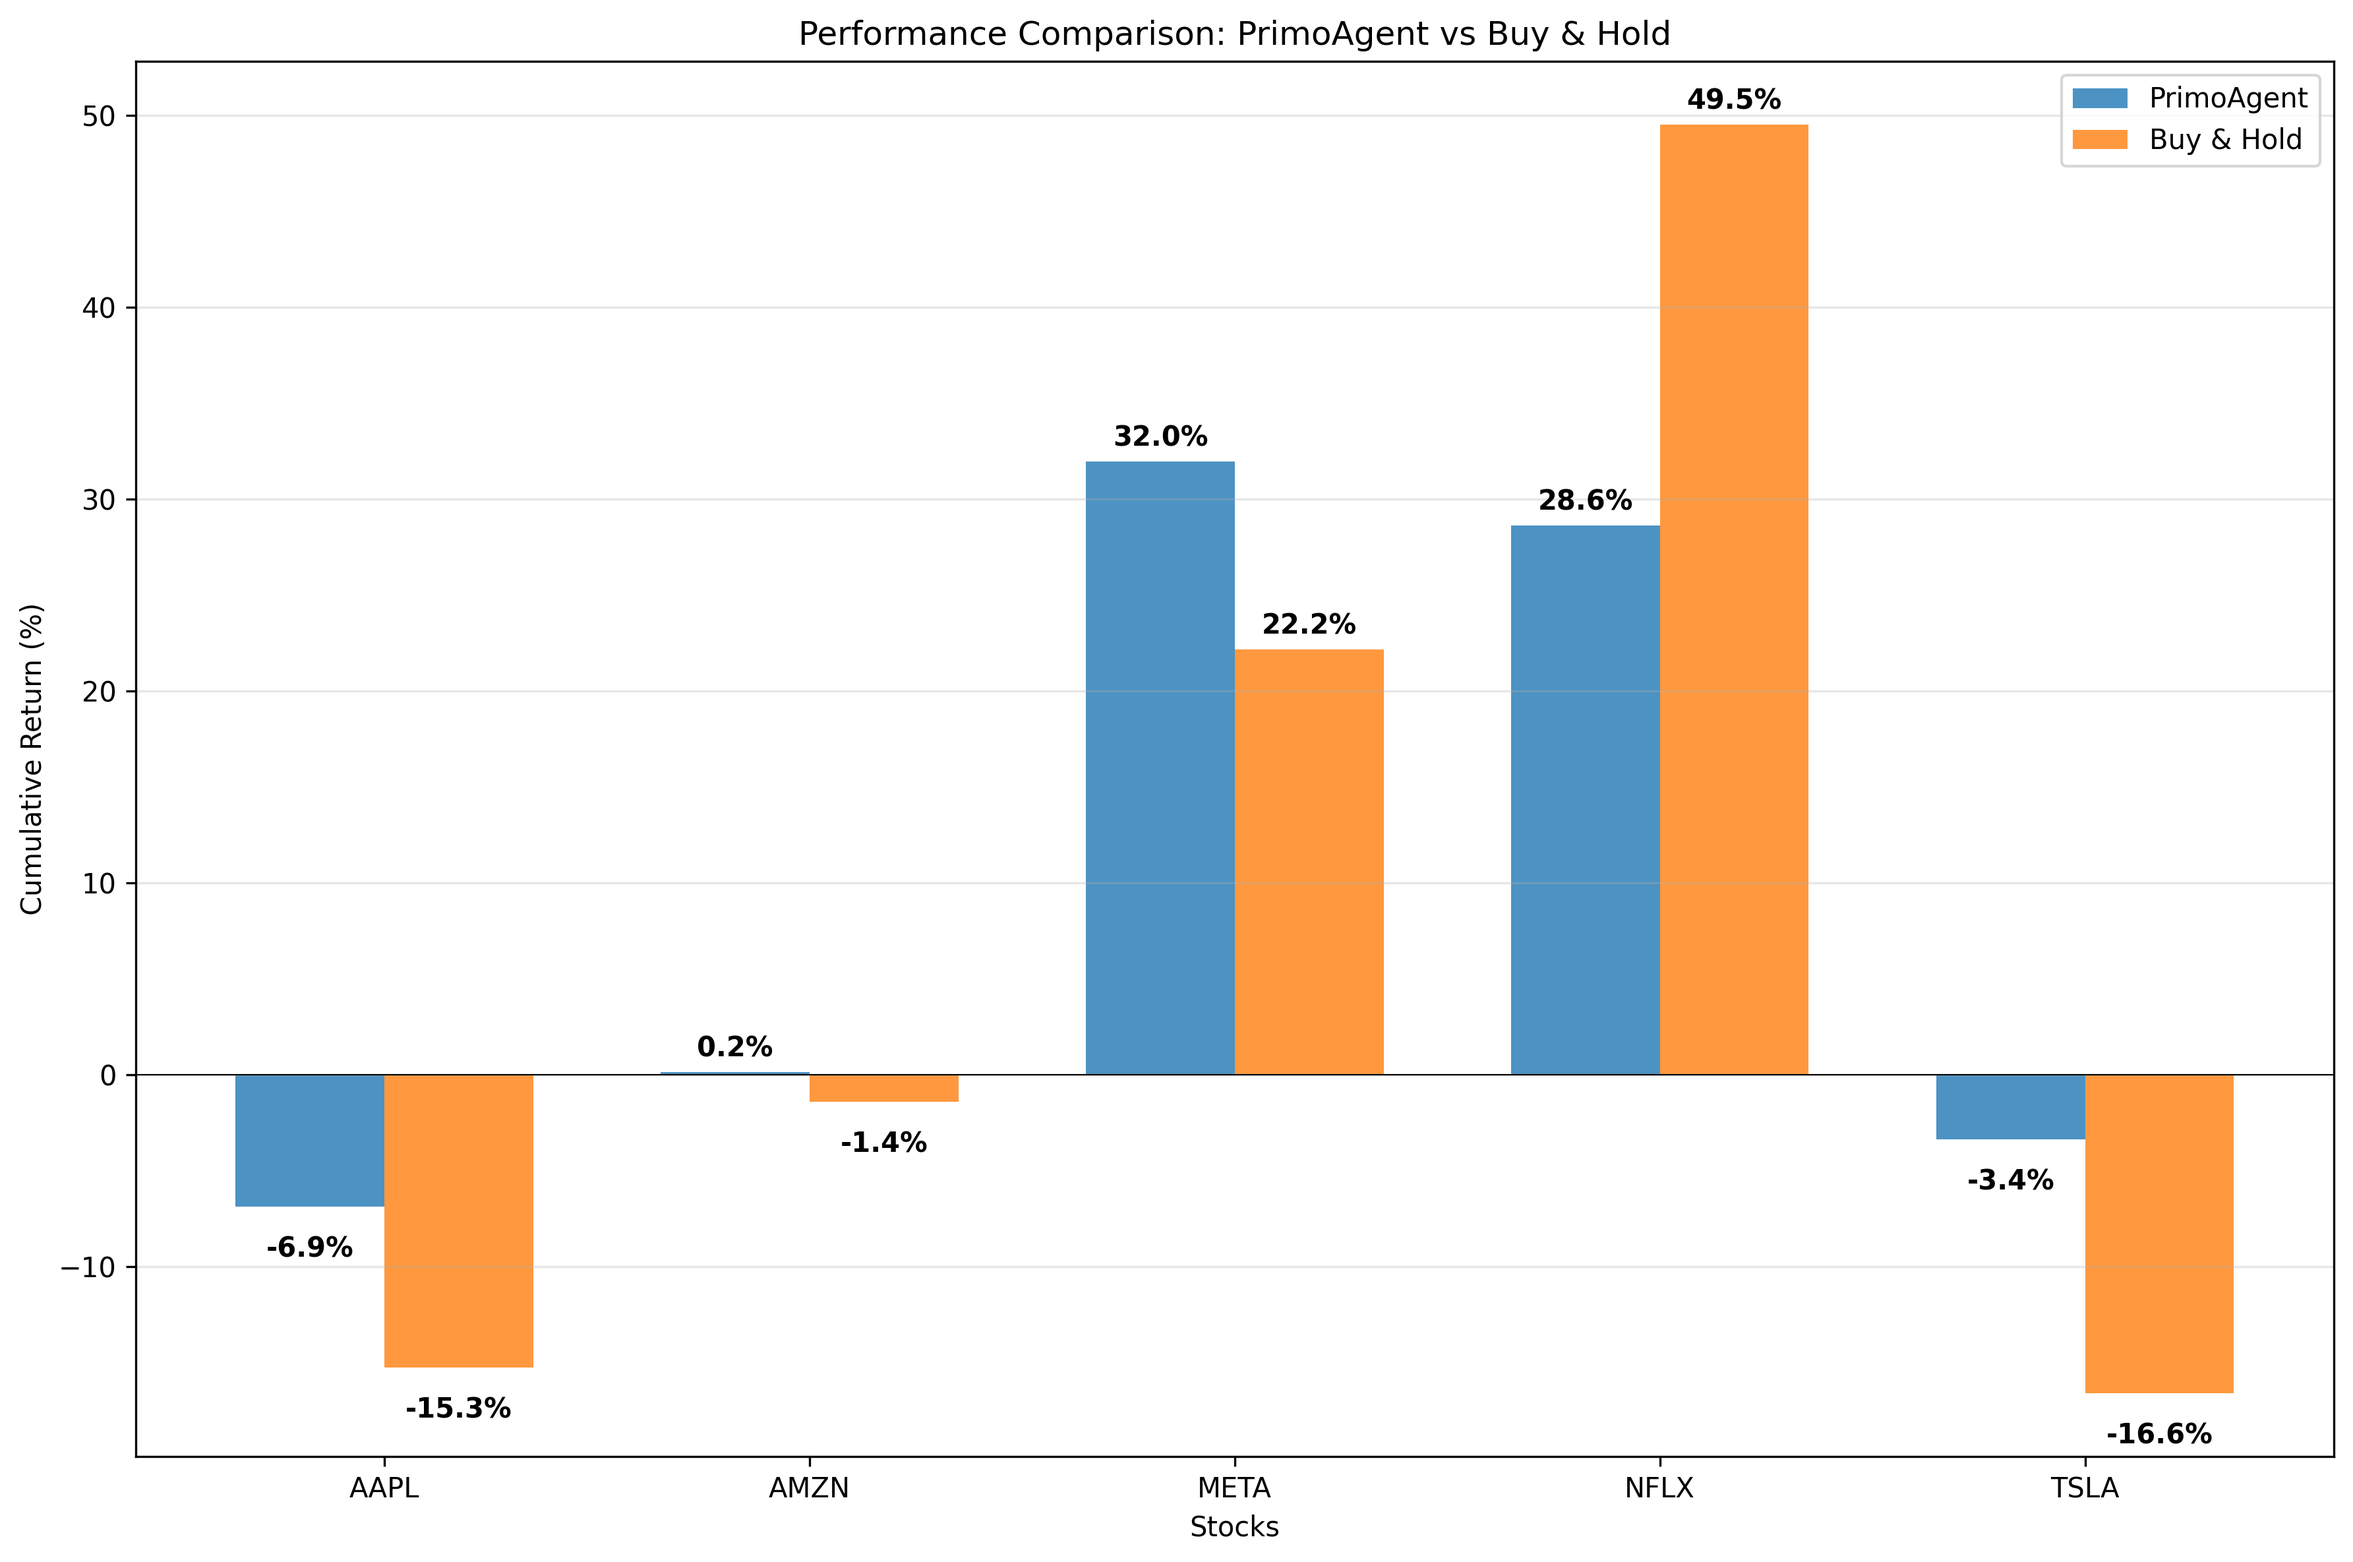
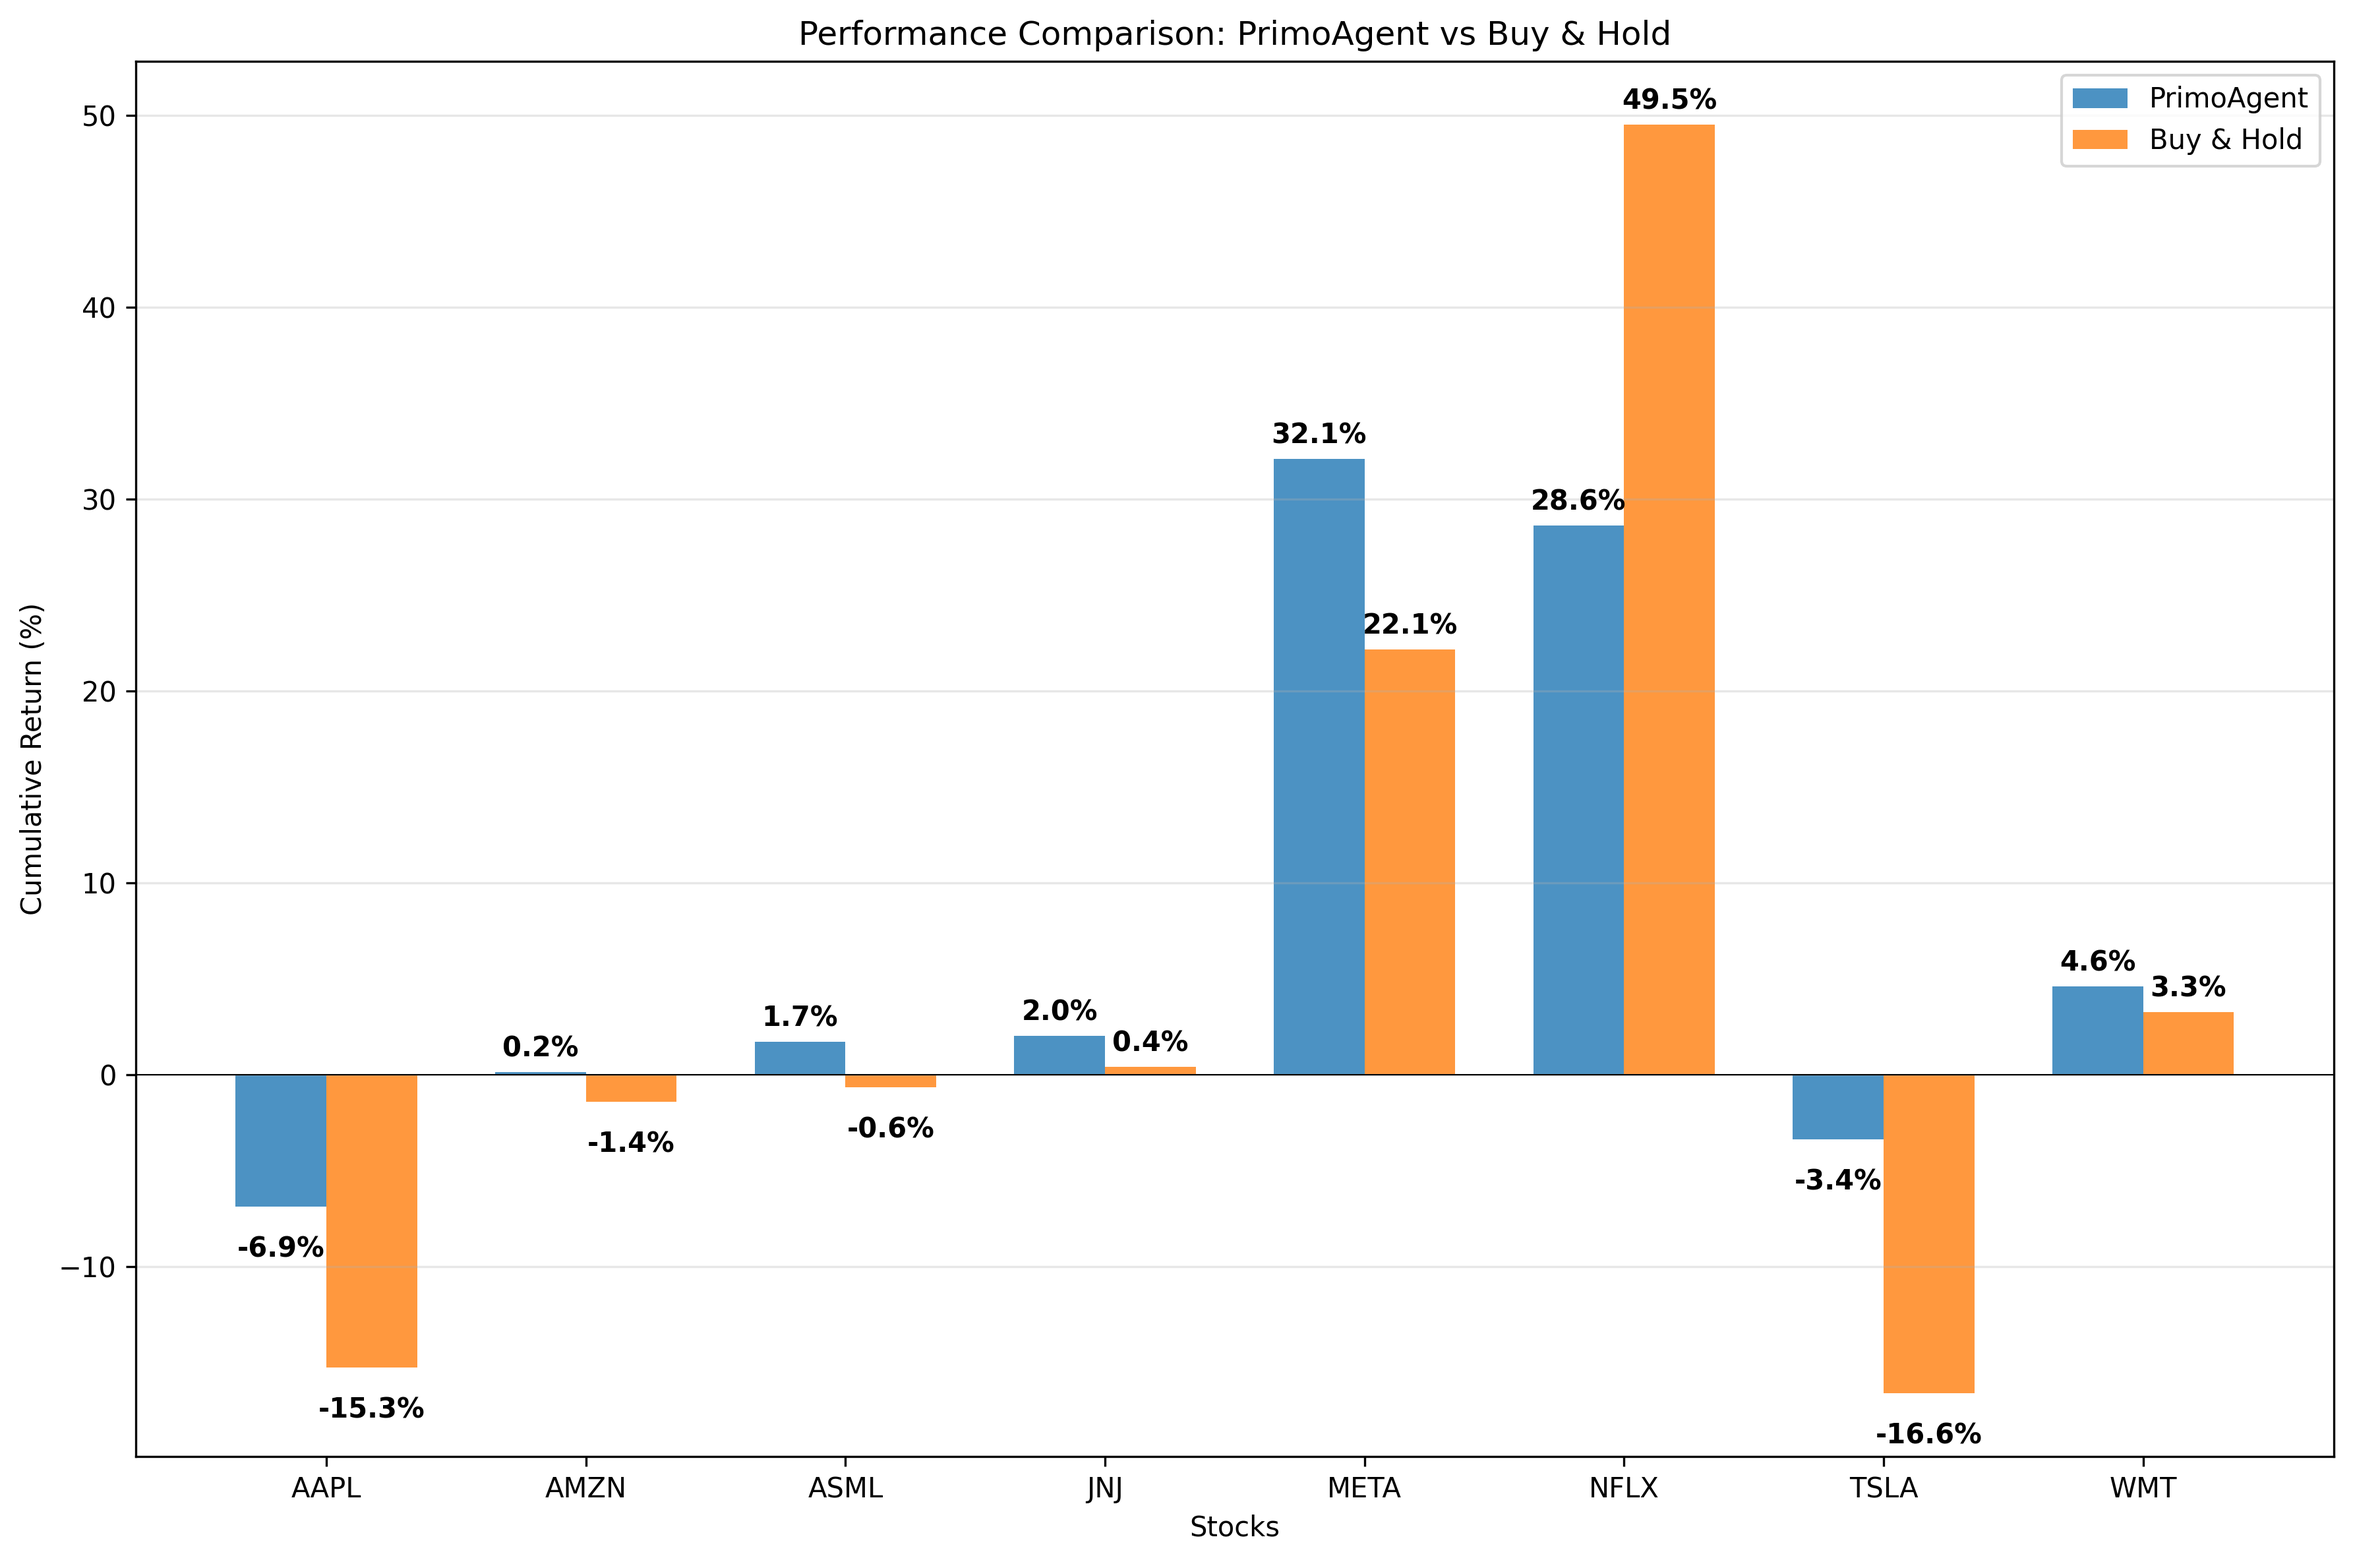
new results

diff --git a/backtest.py b/backtest.py
@@ -168,6 +168,7 @@ def run_single_interactive(data_dir: Path, output_dir: Path) -> int:
         "Sharpe Ratio",
         "Total Trades",
     ]
+    print(f"{'Metric':<22} {'PrimoAgent':>12} {'Buy & Hold':>12} {'Difference':>12}")
     for m in metrics:
         pv, bv = primo_results[m], buyhold_results[m]
         diff = pv - bv

diff --git a/output/backtests/backtest_analysis_report.md b/output/backtests/backtest_analysis_report.md
@@ -1,6 +1,6 @@
 # PrimoAgent Multi-Stock Backtest Results
 
-*Generated on: 2025-09-12 14:52:53*
+*Generated on: 2025-09-25 10:54:13*
 
 ## Performance Metrics
 
@@ -12,12 +12,21 @@
 | AMZN | PrimoAgent | $100,152 | +0.15% | 21.47% | 0.028 | 18.07% | 25 |
 | AMZN | Buy & Hold | $98,602 | -1.40% | 38.10% | 0.058 | 30.79% | 1 |
 | | | | | | | | |
-| META | PrimoAgent | $131,967 | +31.97% | 19.75% | 2.899 | 8.99% | 26 |
-| META | Buy & Hold | $122,165 | +22.16% | 43.10% | 1.124 | 34.04% | 1 |
+| ASML | PrimoAgent | $101,718 | +1.72% | 21.69% | 0.201 | 8.23% | 28 |
+| ASML | Buy & Hold | $99,361 | -0.64% | 43.84% | 0.134 | 19.13% | 1 |
+| | | | | | | | |
+| JNJ | PrimoAgent | $102,013 | +2.01% | 14.45% | 0.260 | 7.62% | 46 |
+| JNJ | Buy & Hold | $100,404 | +0.40% | 23.21% | 0.071 | 12.83% | 1 |
+| | | | | | | | |
+| META | PrimoAgent | $132,094 | +32.09% | 19.81% | 2.901 | 8.98% | 27 |
+| META | Buy & Hold | $122,150 | +22.15% | 43.07% | 1.124 | 34.03% | 1 |
 | | | | | | | | |
 | NFLX | PrimoAgent | $128,606 | +28.61% | 20.25% | 2.570 | 12.13% | 20 |
 | NFLX | Buy & Hold | $149,506 | +49.51% | 36.60% | 2.399 | 19.01% | 1 |
 | | | | | | | | |
 | TSLA | PrimoAgent | $96,647 | -3.35% | 6.52% | -1.355 | 7.72% | 33 |
 | TSLA | Buy & Hold | $83,407 | -16.59% | 75.75% | -0.149 | 47.84% | 1 |
+| | | | | | | | |
+| WMT | PrimoAgent | $104,598 | +4.60% | 10.91% | 0.850 | 4.52% | 43 |
+| WMT | Buy & Hold | $103,279 | +3.28% | 25.73% | 0.346 | 14.11% | 1 |
 | | | | | | | | |
